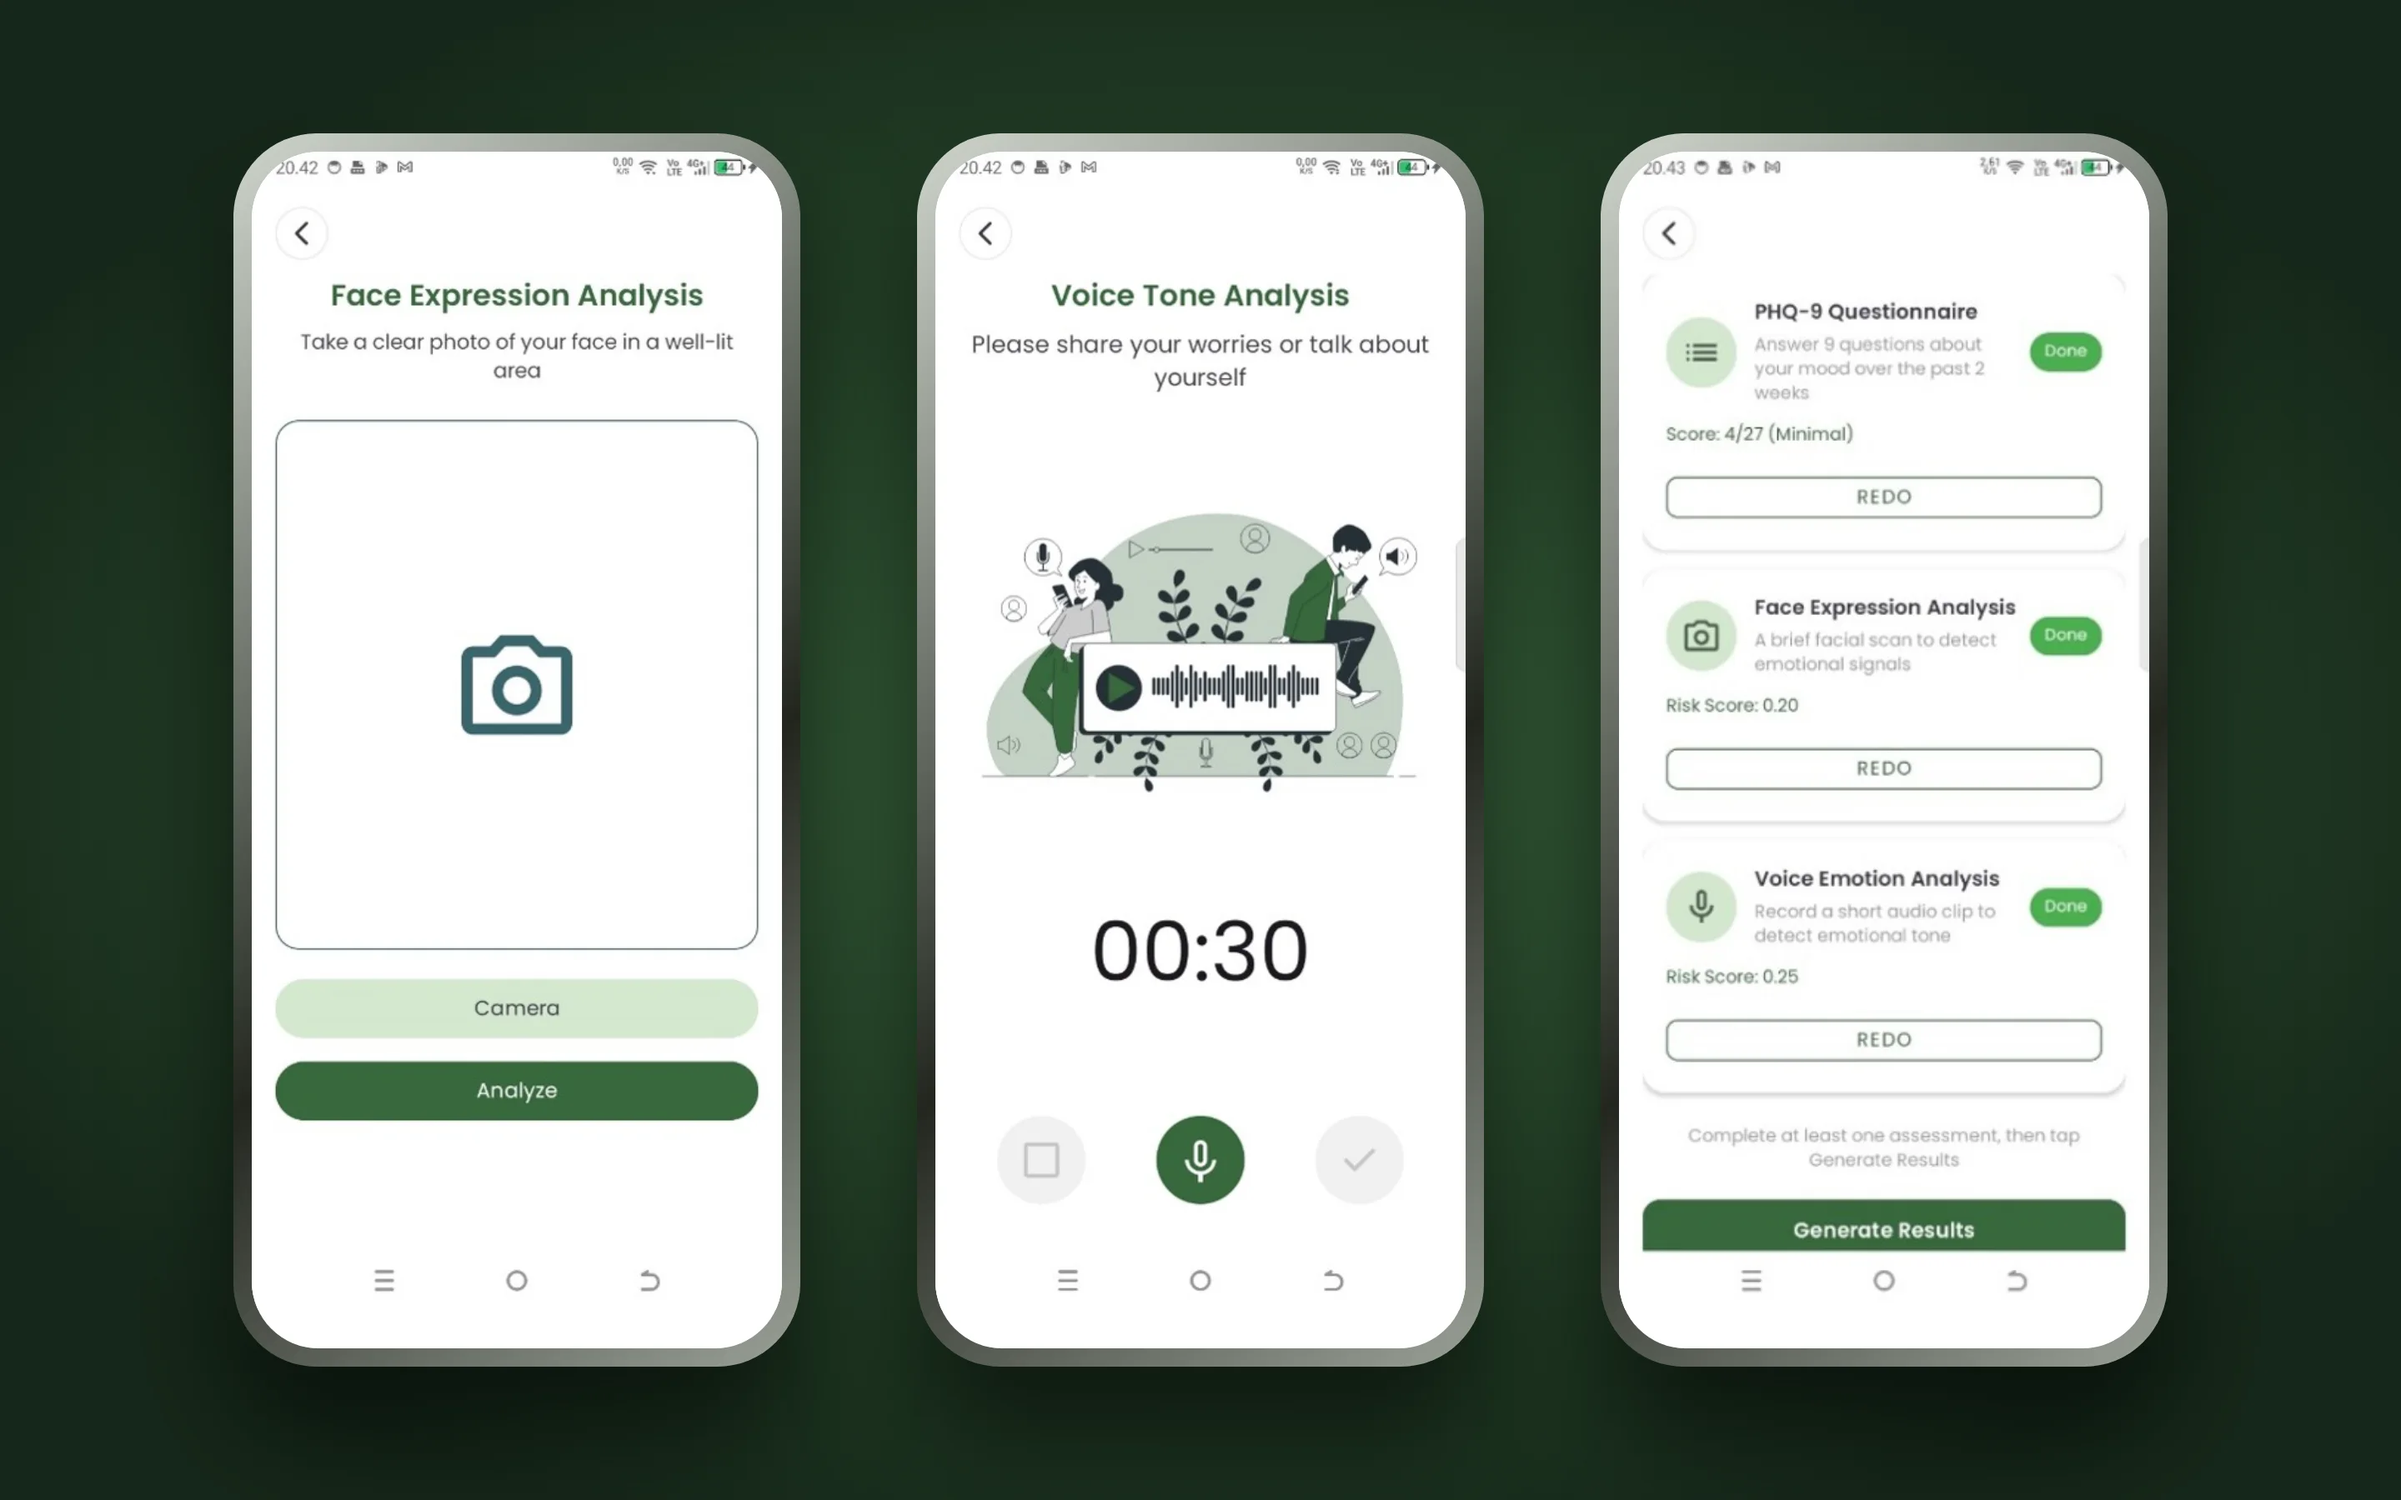
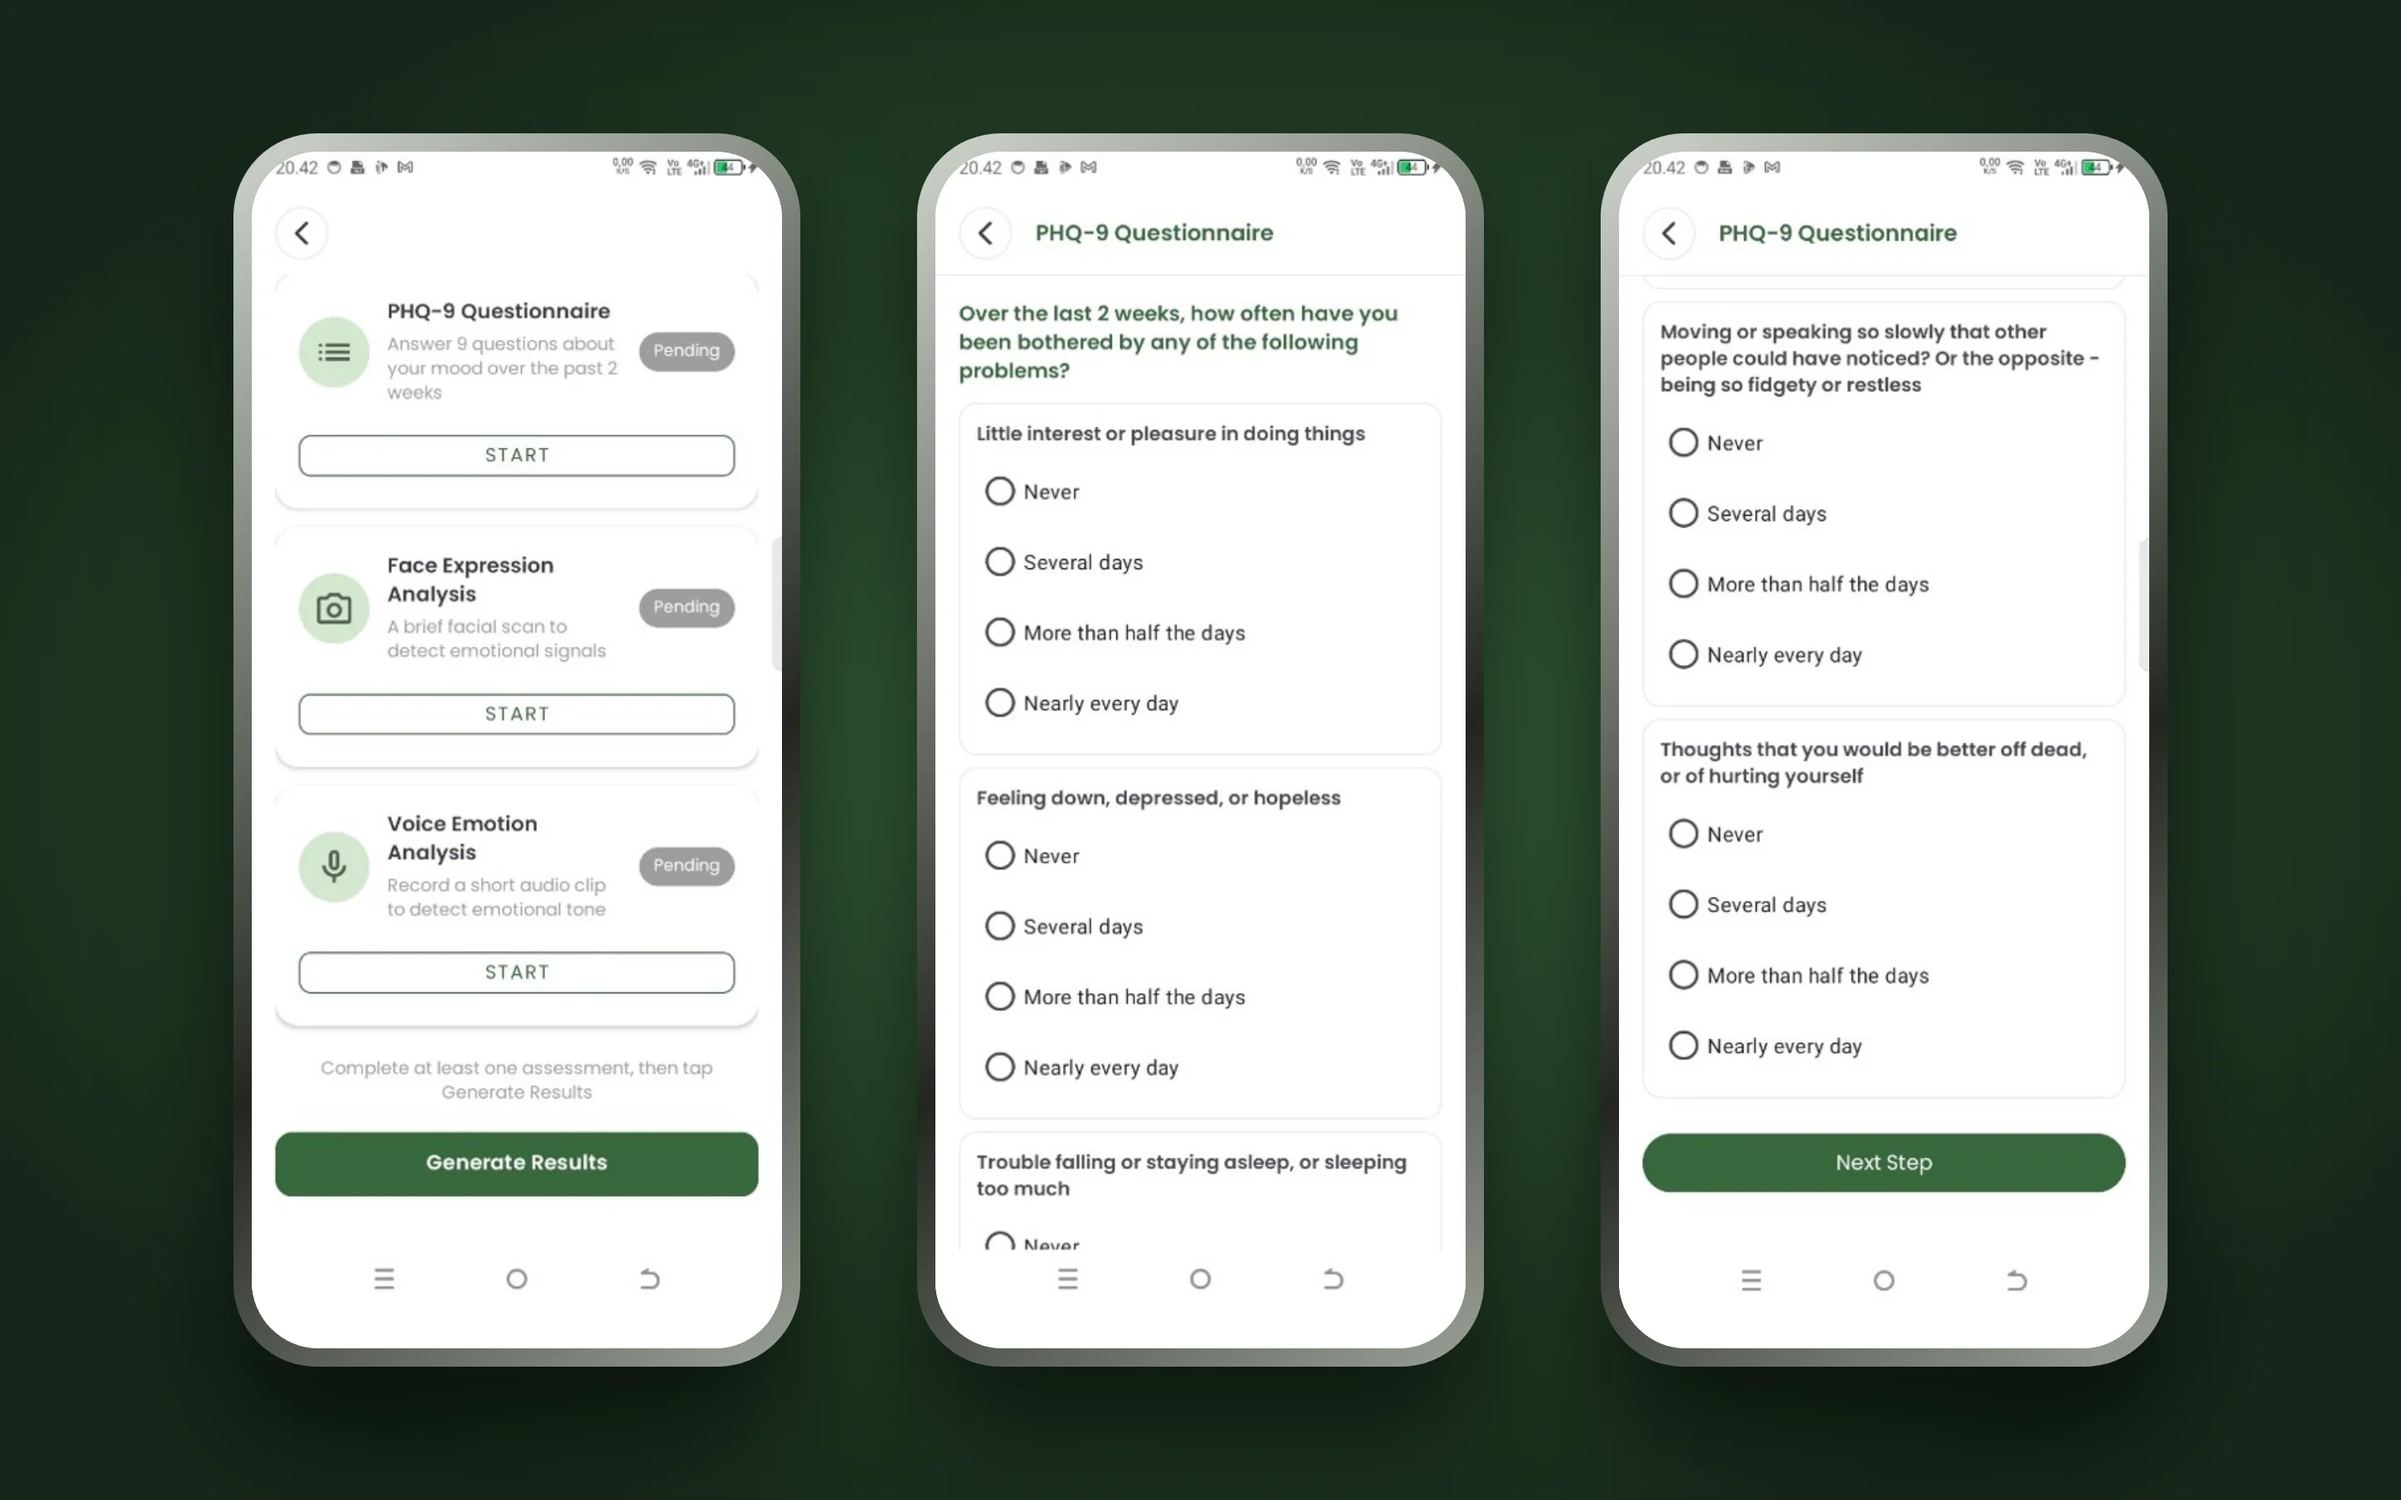
feat(portfolio): expand Mentalys gallery with 21 app screenshots

diff --git a/lib/content.ts b/lib/content.ts
@@ -291,8 +291,13 @@ export const projects: Project[] = [
       height: 1440,
     },
     gallery: [
-      { src: "/projects/mentalys/screens-1.webp", alt: "Mentalys home screen, screening hub and PHQ-9 questionnaire screens side by side.", width: 2880, height: 1800 },
-      { src: "/projects/mentalys/screens-2.webp", alt: "Mentalys face expression analysis, voice emotion analysis and screening results screens side by side.", width: 2880, height: 1800 },
+      { src: "/projects/mentalys/screens-1.webp", alt: "Mentalys welcome screen, login form and home screen with screening shortcuts and specialist cards.", width: 2880, height: 1800 },
+      { src: "/projects/mentalys/screens-2.webp", alt: "Mentalys screening hub with three pending checks, followed by the first and later PHQ-9 questionnaire pages.", width: 2880, height: 1800 },
+      { src: "/projects/mentalys/screens-3.webp", alt: "Mentalys face expression analysis, voice tone analysis with a 30-second timer, and the screening hub with all three checks done.", width: 2880, height: 1800 },
+      { src: "/projects/mentalys/screens-4.webp", alt: "Mentalys screening result: Minimal risk score of 0.20, AI interpretation and summary, then crisis guidance and disclaimer.", width: 2880, height: 1800 },
+      { src: "/projects/mentalys/screens-5.webp", alt: "Mentalys Ask AI chat screens and the mental test history list.", width: 2880, height: 1800 },
+      { src: "/projects/mentalys/screens-6.webp", alt: "Mentalys Pedia home with food recommendations, the mental health article list and an article detail page.", width: 2880, height: 1800 },
+      { src: "/projects/mentalys/screens-7.webp", alt: "Mentalys home screen with music and daily tips, a recipe sheet in Mentalys Pedia, and the settings screen.", width: 2880, height: 1800 },
     ],
     summary:
       "An Android app for early depression-risk screening that combines a PHQ-9 questionnaire with on-device facial and speech emotion recognition.",
